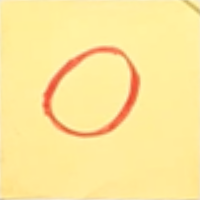
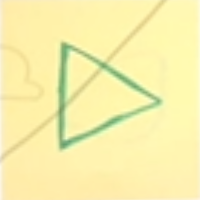
mvp with green detection

diff --git a/svgConverter/svgConverter.js b/svgConverter/svgConverter.js
@@ -1,57 +1,98 @@
 const fs = require('fs');
 const path = require('path');
 const sharp = require('sharp');
-const { Potrace } = require('potrace');
 
 // Shared directory and file paths
 const sharedDir = "shared/";
 const flagFile = path.join(sharedDir, "ready_for_svg.txt");
-const processedImage = "../output/processed.png";
+const greenFilteredImagePath = "../output/green_filtered.png";
+const processedImagePath = "../output/processed.png";
 const outputSvg = "../output/output.svg";
 
-// Preprocess the image with different brightness based on color
-async function preprocessImage(inputImage, color) {
-    // Trim and normalize the color string
-    const normalizedColor = color.trim().toLowerCase();
+// Function to extract green parts of the image
+async function extractGreenParts(inputImage, outputImage) {
+    console.log("Extracting green parts of the image...");
 
-    let brightnessFactor = (normalizedColor === 'blue') ? 2.9 : 1.3;
+    const image = sharp(inputImage);
+    const { data, info } = await image.raw().toBuffer({ resolveWithObject: true });
 
-    console.log(`Detected ${normalizedColor} Post-it. Applying brightness: ${brightnessFactor}x`);
+    const width = info.width;
+    const height = info.height;
+    const channels = info.channels;
+
+    if (channels < 3) {
+        throw new Error("Input image must have at least 3 color channels (RGB).");
+    }
+
+    const greenMask = Buffer.alloc(width * height * channels);
+
+    for (let i = 0; i < data.length; i += channels) {
+        const r = data[i];
+        const g = data[i + 1];
+        const b = data[i + 2];
+
+        // Detect green pixels
+        if (g > 10 && g > r  && g > b ) {
+            // Turn green pixels to black
+            greenMask[i] = 0;       // Red
+            greenMask[i + 1] = 0;   // Green
+            greenMask[i + 2] = 0;   // Blue
+            if (channels === 4) {
+                greenMask[i + 3] = data[i + 3]; // Preserve alpha channel if present
+            }
+        } else {
+            // Turn non-green pixels to white
+            greenMask[i] = 255;     // Red
+            greenMask[i + 1] = 255; // Green
+            greenMask[i + 2] = 255; // Blue
+            if (channels === 4) {
+                greenMask[i + 3] = data[i + 3]; // Preserve alpha channel if present
+            }
+        }
+    }
+
+    await sharp(greenMask, { raw: { width, height, channels } })
+        .toFile(outputImage);
+
+    console.log(`Green parts extracted and saved to ${outputImage}`);
+}
+
+// Preprocess the red-filtered image (e.g., flip, grayscale, etc.)
+async function preprocessImage(inputImage, outputImage) {
+    console.log("Preprocessing the image...");
 
     await sharp(inputImage)
         .greyscale()
-        .modulate({ brightness: brightnessFactor })
-        .normalise()
-        .toFile(processedImage);
+        .toFile(outputImage);
 
-    console.log('Image preprocessing complete.');
+    console.log(`Image preprocessing complete. Saved to ${outputImage}`);
 }
-// Convert the processed image to SVG using Potrace
+
+// Convert the processed image to SVG
 function convertToSvg() {
-    copyJsonFile();
+    const { Potrace } = require('potrace');
     const trace = new Potrace();
-    trace.loadImage(processedImage, function (err) {
+
+    trace.loadImage(processedImagePath, function (err) {
         if (err) throw err;
         fs.writeFileSync(outputSvg, trace.getSVG());
         console.log(`SVG saved as ${outputSvg}`);
+        copyJsonFile();
     });
 }
 
 function copyJsonFile() {
-
     let source = './shared/position_color.json';
     let destination = '../output/position_color.json';
 
     try {
-      fs.copyFileSync(source, destination);
-      console.log(`File copied from ${source} to ${destination}`);
+        fs.copyFileSync(source, destination);
+        console.log(`File copied from ${source} to ${destination}`);
     } catch (error) {
-      console.error('Error copying file:', error);
+        console.error('Error copying file:', error);
     }
-  }
-  
-  
-  
+}
+
 
 // Watch for the flag file
 function watchForDrawing() {
@@ -59,9 +100,8 @@ function watchForDrawing() {
 
     const interval = setInterval(() => {
         if (fs.existsSync(flagFile)) {
-            console.log("New drawing detected! Starting SVG conversion...");
+            console.log("New drawing detected! Starting processing...");
 
-            // Read the flag file content (image path and color)
             const content = fs.readFileSync(flagFile, 'utf8').trim();
             const [inputImage, color] = content.split(',');
 
@@ -72,15 +112,15 @@ function watchForDrawing() {
 
             console.log(`Processing file: ${inputImage}, Color: ${color}`);
 
-            // Remove the flag file to avoid duplicate processing
             fs.unlinkSync(flagFile);
 
-            // Process the image and convert to SVG
-            preprocessImage(inputImage, color)
+            // Process the image
+            extractGreenParts(inputImage, greenFilteredImagePath)
+                .then(() => preprocessImage(greenFilteredImagePath, processedImagePath))
                 .then(convertToSvg)
                 .catch(console.error);
         }
-    }, 500); // Check every second
+    }, 1000); // Check every second
 
     process.on('SIGINT', () => {
         clearInterval(interval);
@@ -89,4 +129,5 @@ function watchForDrawing() {
     });
 }
 
+// Start watching for the flag file
 watchForDrawing();
